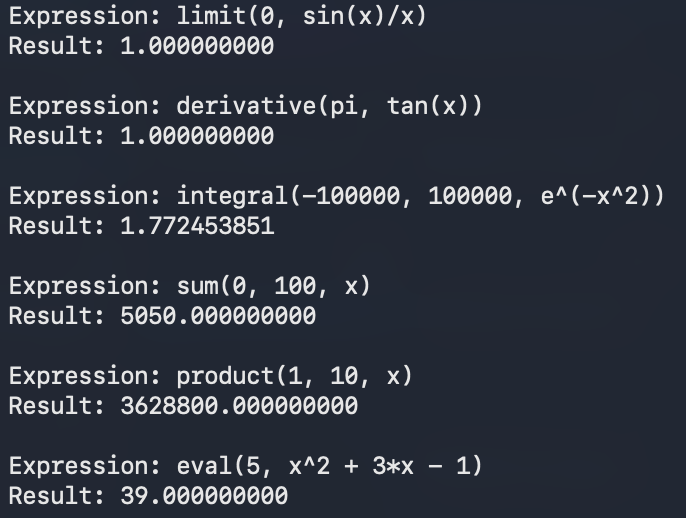
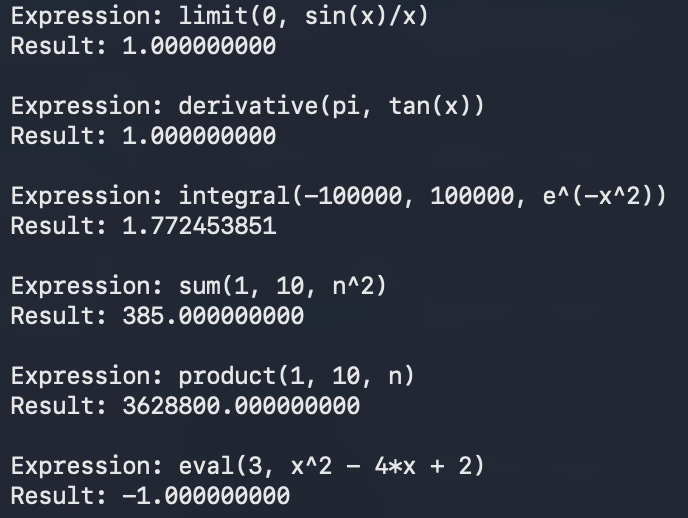
improve example in docs

diff --git a/docs/usage.md b/docs/usage.md
@@ -6,7 +6,7 @@
 > - Only single-variable function are supported. If your function has multiple variables, they will all be treated as the **same variable**.
 > - Do not use `e` as a variable name (`e` is reserved for Euler's number).
 > - Use `arcsin(x)` instead of `sin^(-1)(x)` and `(sin(x))^(-1)`, `arccsc(x)` instead of `csc^(-1)(x)` and `(csc(x))^(-1)`, etc. for the inverse trig functions.
-> - Put parantheses around all function calls and subscripts (for logarithm bases). For example: `log_(32)(sin(x))`.
+> - Put parantheses around all function calls, subscripts (for logarithm bases), and non-trivial exponents, divisors, etc. For example: `log_(32)(sin(x))` and `(13 / (x + 1))^(3 + 4)`
 > - `log` defaults to base-10 without a subscript (base) and `ln` is always base-e (do not include a subscript for `ln`).
 > - Implicit multiplication is not yet supported. Thus, ensure to explicitly add multiplication signs (e.g., `42 * sin(5 / x)`).
 
